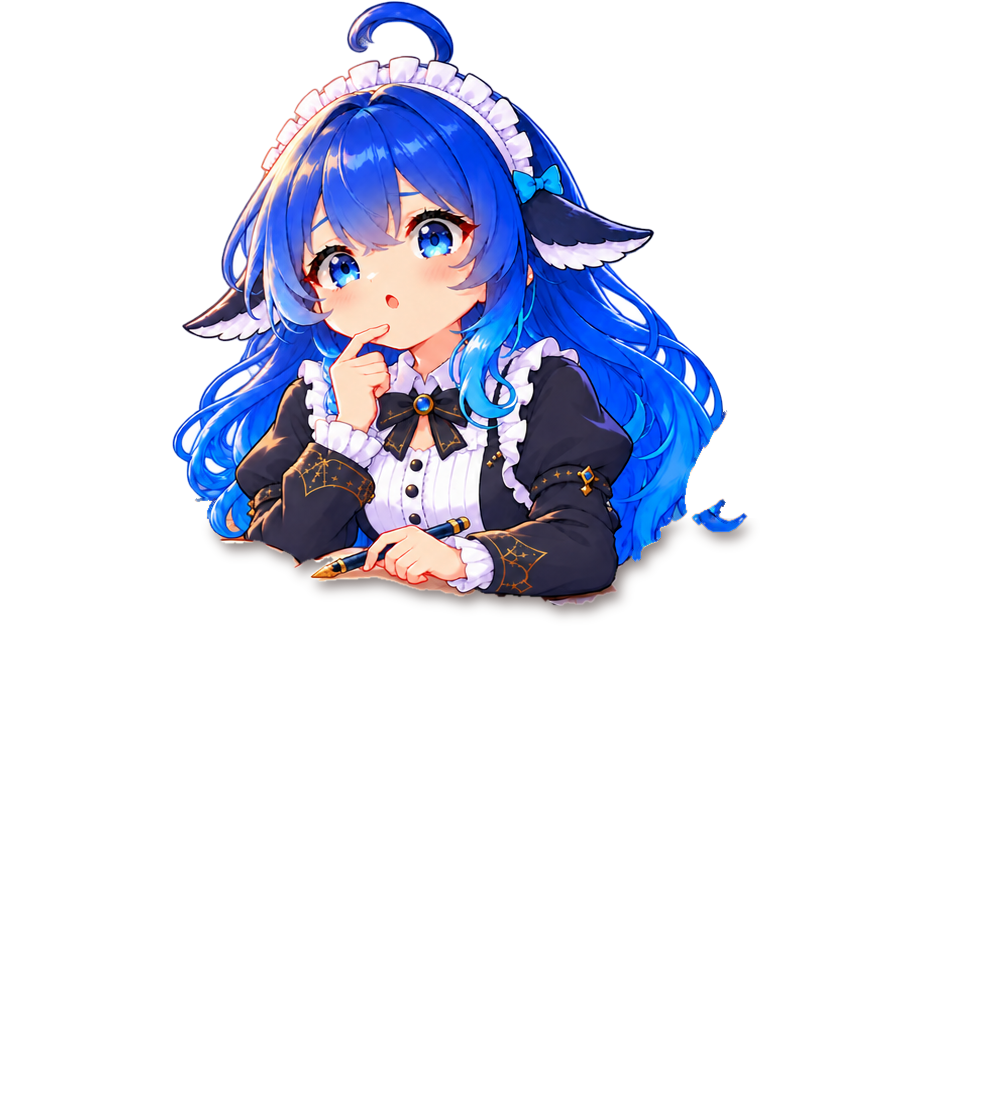
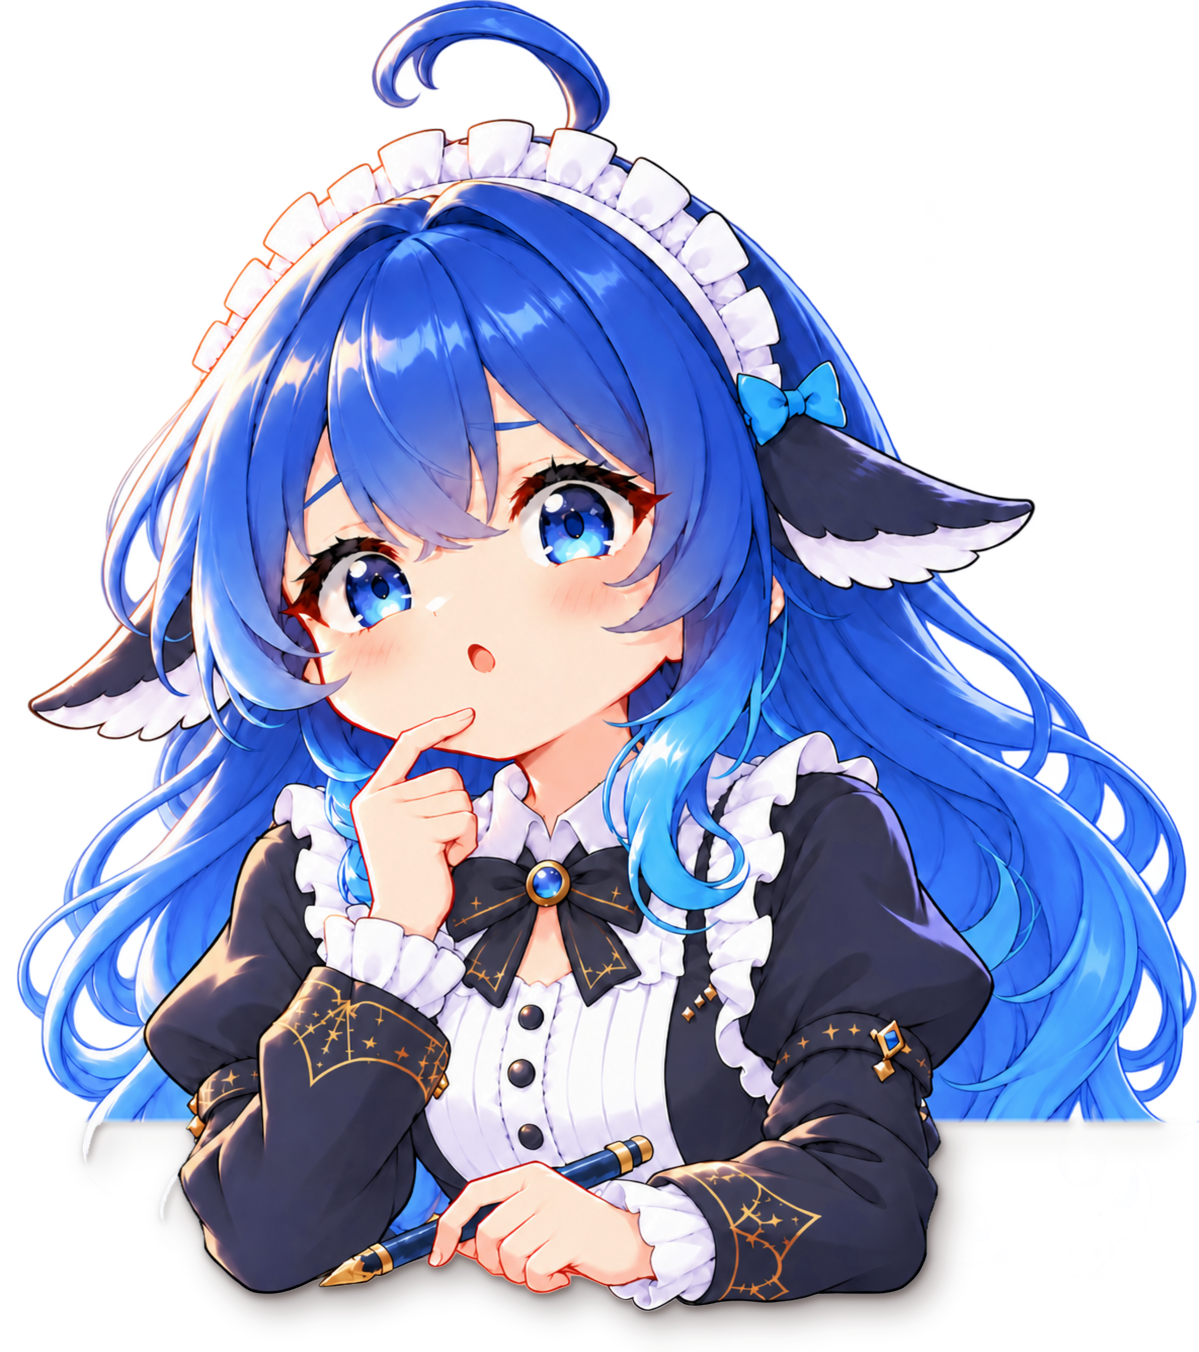
人物层改用 relit3 立绘：放到固定书桌上，程序生成阴影（char_layers.py 替换 combo_layers.py）

diff --git a/brand-override/skin.css b/brand-override/skin.css
@@ -463,8 +463,10 @@ $SKIN [data-sidebar-right-panel="push"][data-sidebar-right-open="true"] {
  * assets/combo/hair-*.png 是合成图左侧 x 0–270、y 0–700 的一条，桌面以下只留发丝（tools/combo_hair.py），
  * 和合成图同一原点、同一比例叠放，只显示陪伴栏左边以外的部分。
  * 「固定书桌 + 人物层」（陪伴栏带 data-layered，第九步）：书桌 desk-fixed 一张不切换，截在栏内；
- * 人物层 char-*（tools/combo_layers.py）不截，伸出栏外的头发直接盖住对话框，不再需要头发条；
- * 最上面是从书桌切出的羽毛笔和墨水瓶 desk-front。三张都是同一原点、同一尺寸。 */
+ * 人物层 char-*（tools/char_layers.py 由 relit3 立绘生成）不截，伸出栏外的头发直接盖住对话框，不再需要头发条。
+ * 人物层是立绘坐标（1199×1312，底部多 40px 放阴影，共 1352），按立绘框放：左 = 立绘左，宽 = 立绘宽，
+ * 上 = 合成图上沿 − 3 / 1120 × 合成图高（立绘左上角在合成图 (174, −3)），高 = 立绘高 × 1352 / 1312。
+ * 书桌 desk-fixed 和羽毛笔、墨水瓶 desk-front 是合成图坐标（1000×1120），和以前的合成图同一位置。 */
 $SKIN [data-dsh-academy-rail][data-combo],
 $SKIN [data-dsh-academy-desk-back] {
   --dsh-ch-h: calc(63vh - 70px);
@@ -504,7 +506,13 @@ $SKIN [data-dsh-academy-rail][data-combo] .dsh-academy-combo-front {
   height: calc(var(--dsh-ch-h) * 1.8358);
   clip-path: inset(0 0 0 var(--dsh-combo-rail-x));
 }
-$SKIN [data-dsh-academy-rail][data-layered] .dsh-academy-character { clip-path: none; }
+$SKIN [data-dsh-academy-rail][data-layered] .dsh-academy-character {
+  top: calc(104px - var(--dsh-ch-h) * 0.0098);
+  left: var(--dsh-ch-x);
+  width: var(--dsh-ch-w);
+  height: calc(var(--dsh-ch-h) * 1.0305);
+  clip-path: none;
+}
 $SKIN [data-dsh-academy-rail][data-combo] .dsh-academy-hair {
   width: calc(var(--dsh-ch-w) * 0.4843);   /* 270 / 1000 × 合成图宽 */
   height: calc(var(--dsh-ch-h) * 1.1474);  /* 700 / 1120 × 合成图高 */

diff --git a/tools/char_layers.py b/tools/char_layers.py
@@ -1,0 +1,103 @@
+#!/usr/bin/env python3
+"""
+第九步「固定书桌 + 人物层」的素材生成。
+
+人物层：直接用 relit3 立绘（2398×2624），缩到立绘坐标 1199×1312（陪伴栏里人物按这个尺寸显示，比合成图里的人物清楚一倍），
+放到固定书桌上：桌面后沿以上全部保留；以下去掉身体两侧垂下的头发（只去和两侧头发连通的部分，衬衫上偏蓝的阴影、
+好奇表情的蓝色笔杆不动），手臂和手压在桌上。接触阴影程序生成（贴边一层 + 右下柔和投影），画布底部多留 PAD px 给阴影。
+输出 assets/combo/char-*.png（1199×1352）和 thumb-*.png（256×256，同一个头部框）。
+
+书桌：--desk 给出 GPT 交付的固定书桌（1405×1120）时，裁出合成图坐标 x 250–1250 存为 desk-fixed.png（alpha ≥ 240 改成 255），
+并切出羽毛笔和墨水瓶所在的矩形存为 desk-front.png，叠在人物层上面（这块和下面的书桌像素相同，只有盖住头发的地方看得出来）。
+
+坐标：立绘坐标 p 和合成图坐标 c（1000×1120，即 round14 x 250–1250）的关系是 c = (174, −3) + 0.465 × p，
+和 round14 合成图里人物的位置、大小一致（skin.css 合成图段按这个换算）。
+用法：python3 tools/char_layers.py --src <素材目录>/round6/relit3 [--desk <素材目录>/round15/desk-fixed.png] [--debug <目录>]
+"""
+import sys
+from pathlib import Path
+
+import numpy as np
+from PIL import Image
+from scipy import ndimage
+
+DIR = Path(__file__).resolve().parent.parent / 'assets' / 'combo'
+SOURCES = {'default': 'academy-maid-pensive', 'happy': 'expr-happy', 'curious': 'expr-curious', 'wink': 'expr-wink'}
+W, H, PAD = 1199, 1312, 40
+EDGE = 1117          # 桌面后沿：固定书桌在合成图 y≈515，round14 是 518，换成立绘坐标约 1114–1120
+RAMP = 6             # 去头发时从桌沿往下 6px 过渡
+SIDE_L, SIDE_R = 150, 960   # 桌沿以下，这两条线外侧的头发是「两侧垂下的头发」，从这里开始找连通的头发
+THUMB_BOX = (34, 77, 944, 987)   # 头部框（立绘坐标），和以前合成图缩略图的框是同一处
+FRONT_BOX = (634, 330, 760, 615)  # 羽毛笔和墨水瓶（合成图坐标）
+
+
+def char_layer(src):
+    im = Image.open(src).convert('RGBA').resize((W, H), Image.LANCZOS)
+    a = np.zeros((H + PAD, W, 4), float)
+    a[:H] = np.asarray(im).astype(float)
+    a[..., 3] = np.where(a[..., 3] >= 240, 255, a[..., 3])   # relit3 主体 alpha 是 250–254
+    r, g, b = a[..., 0], a[..., 1], a[..., 2]
+    yy = np.arange(H + PAD)[:, None] * np.ones((1, W), int)
+    xx = np.arange(W)[None, :] * np.ones((H + PAD, 1), int)
+    hair = (((b > 110) & (b - r > 45) & (b - g > 15)) | ((b > 170) & (b - r > 28) & (b >= g))) & (a[..., 3] > 20)
+    low = yy >= EDGE
+    seed = hair & low & ((xx < SIDE_L) | (xx > SIDE_R))
+    side = ndimage.binary_propagation(seed, mask=hair & low)
+    side = ndimage.gaussian_filter(ndimage.binary_dilation(side, iterations=1).astype(float), 0.8)
+    ramp = np.clip((yy - EDGE) / RAMP, 0, 1)
+    a[..., 3] *= 1 - side * ramp
+    # 接触阴影：桌沿以下的人物轮廓
+    al = a[..., 3] / 255
+    body = ((al > 0.5) & low).astype(float)
+    contact = ndimage.gaussian_filter(ndimage.shift(body, (4, 2), order=0), 4) * 0.5
+    soft = ndimage.gaussian_filter(ndimage.shift(body, (15, 11), order=0), 15) * 0.4
+    sh = np.clip(1 - (1 - contact) * (1 - soft), 0, 0.6) * (1 - al) * low
+    oa = al + sh * (1 - al)
+    out = np.zeros_like(a)
+    out[..., :3] = (a[..., :3] * al[..., None] + np.array([40, 22, 18]) * (sh * (1 - al))[..., None]) / np.maximum(oa, 1e-6)[..., None]
+    out[..., 3] = oa * 255
+    return Image.fromarray(np.clip(out, 0, 255).astype('uint8'))
+
+
+def desk_layers(src):
+    d = Image.open(src).convert('RGBA')
+    if d.size != (1405, 1120):
+        raise SystemExit(f'desk 尺寸应为 1405×1120，实际 {d.size}')
+    a = np.asarray(d.crop((250, 0, 1250, 1120))).copy()
+    a[..., 3] = np.where(a[..., 3] >= 240, 255, a[..., 3])   # GPT 给的主体 alpha 是 245–254
+    Image.fromarray(a).save(DIR / 'desk-fixed.png', optimize=True)
+    front = np.zeros_like(a)
+    x1, y1, x2, y2 = FRONT_BOX
+    front[y1:y2, x1:x2] = a[y1:y2, x1:x2]
+    Image.fromarray(front).save(DIR / 'desk-front.png', optimize=True)
+    print('wrote', DIR / 'desk-fixed.png', DIR / 'desk-front.png')
+
+
+def main():
+    args = sys.argv[1:]
+    opt = lambda name: args[args.index(name) + 1] if name in args else None
+    src, desk, debug = opt('--src'), opt('--desk'), opt('--debug')
+    if desk:
+        desk_layers(desk)
+    if not src:
+        return
+    for key, name in SOURCES.items():
+        layer = char_layer(Path(src) / f'{name}.png')
+        layer.save(DIR / f'char-{key}.png', optimize=True)
+        layer.crop(THUMB_BOX).resize((256, 256), Image.LANCZOS).save(DIR / f'thumb-{key}.png', optimize=True)
+        print('wrote', DIR / f'char-{key}.png', DIR / f'thumb-{key}.png')
+        if debug:
+            # 预览：按合成图坐标叠到固定书桌上
+            Path(debug).mkdir(parents=True, exist_ok=True)
+            base = Image.new('RGBA', (1000, 1120), (225, 228, 235, 255))
+            base.alpha_composite(Image.open(DIR / 'desk-fixed.png'))
+            small = layer.resize((round(W * 0.465), round((H + PAD) * 0.465)), Image.LANCZOS)
+            top = Image.new('RGBA', base.size, (0, 0, 0, 0))
+            top.paste(small, (174, -3), small)
+            base.alpha_composite(top)
+            base.alpha_composite(Image.open(DIR / 'desk-front.png'))
+            base.save(Path(debug) / f'preview-{key}.png')
+
+
+if __name__ == '__main__':
+    main()

diff --git a/docs/交接说明.md b/docs/交接说明.md
@@ -46,6 +46,7 @@ DeepSeek Harness 桌面版（Electron）的**本地皮肤插件**，非官方，
 | `tools/devtools.mjs` | 连接调试端口：`eval` / `shot` / `css` / `live` |
 | `tools/sidebar_starmap.py` | 生成侧栏星图底纹 SVG（参数见 `skin.css` 注释） |
 | `tools/combo_relight.py` | 角色 + 书桌合成图重新打光（自检 `tools/combo_relight_check.py`） |
+| `tools/char_layers.py` | 第九步人物层（relit3 立绘 → `assets/combo/char-*.png`、缩略图）和固定书桌、前景层 |
 | `tools/expressions.py` | 表情立绘自检（`check` 只改脸、`pose` 允许换姿势）与统一裁缩略图（`thumbs`） |
 
 关键机制：
@@ -62,9 +63,9 @@ DeepSeek Harness 桌面版（Electron）的**本地皮肤插件**，非官方，
 | 对话框 | 金边九宫格边框，白底按边框内侧形状遮罩裁切；对话头像（DeepSeek / 用户） | `ui/panel-frame.png`、`ui/panel-fill-mask.png` |
 | 输入框 | 高清胶囊边框，按输入框高度等比缩放；粉色访问模式胶囊、绿色模型胶囊、蓝色发送钮 | `ui/composer-frame-v2.png` |
 | 右侧面板（文件/终端/浏览器） | 并排、全屏两种模式都有金边，白底同样遮罩裁切 | 同对话框 |
-| 陪伴栏 | 便签、固定书桌 + 人物层（四个表情：默认/开心/好奇/眨眼，只换人物层，150ms 交叉渐变）、人物层的头发伸出盖住对话框、对话框下面的桌子延伸层、羽毛笔和墨水瓶前景层、华丽气泡（尖角在左侧）、表情按钮 | `combo/desk-fixed.png`、`combo/char-*.png`、`combo/desk-front.png`、`combo/thumb-*.png`（旧的整张合成图和头发条保留作退路）、`ui/bubble-frame-ornate.png`、`ui/bubble-tail-left.png`；旧的 `relit/*` 立绘和 `ui/desk-v6.png` 保留但不再使用 |
+| 陪伴栏 | 便签、固定书桌 + 人物层（四个表情：默认/开心/好奇/眨眼，只换人物层，150ms 交叉渐变）、人物层的头发伸出盖住对话框、对话框下面的桌子延伸层、羽毛笔和墨水瓶前景层、华丽气泡（尖角在左侧）、表情按钮 | `combo/desk-fixed.png`、`combo/char-*.png`（relit3 立绘生成）、`combo/desk-front.png`、`combo/thumb-*.png`（旧的整张合成图和头发条保留作退路）、`ui/bubble-frame-ornate.png`、`ui/bubble-tail-left.png`；旧的 `relit/*` 立绘和 `ui/desk-v6.png` 保留但不再使用 |
 
-合成图模式的结构（重要，细节见 `skin.css` 合成图段注释和修改记录 2026-10-04 各条）。**当前用的是「固定书桌 + 人物层」**（`skin.mascot.desk`/`front` 给出时，陪伴栏带 `data-layered`）：书桌一张不切换、截在栏内，背层只放书桌；人物层 `char-*`（`tools/combo_layers.py` 从合成图抠出，含接触阴影）不截、交叉渐变；最上面是羽毛笔和墨水瓶。以下是旧的整张合成图做法，作为退路保留：
+合成图模式的结构（重要，细节见 `skin.css` 合成图段注释和修改记录 2026-10-04 各条）。**当前用的是「固定书桌 + 人物层」**（`skin.mascot.desk`/`front` 给出时，陪伴栏带 `data-layered`）：书桌一张不切换、截在栏内，背层只放书桌；人物层 `char-*`（`tools/char_layers.py` 由 relit3 立绘生成，立绘坐标，含接触阴影）不截、交叉渐变；最上面是羽毛笔和墨水瓶。以下是旧的整张合成图做法，作为退路保留：
 - `logo.config.json` 的 `skin.mascot.combo: true` 打开合成图模式；`skin.art.desk` 关掉。
 - 素材 `assets/combo/`：`combo-*.png` 是 round14 合成图（1405×1120）裁出的 x 250–1250（1000×1120）；`thumb-*.png` 用同一个头部框裁；`hair-*.png` 是左侧一条只有头发的图（`python3 tools/combo_hair.py` 生成，换图后要重跑）。
 - 每个表情是一个 `.dsh-academy-pose`，包含三处图：陪伴栏里的合成图（截在栏内）和头发条（只显示栏左边以外，盖住对话框），以及 body 下 `[data-dsh-academy-desk-back]` 里的同一张合成图（z-index 0，在对话框下面，只显示栏左边以外，让桌子延伸到对话框下）。
@@ -89,8 +90,8 @@ node tools/devtools.mjs eval "<JS>"                               # 查 DOM
 
 1. **已完成：固定书桌 + 人物层**（2026-10-04，第九步）。切换表情时书桌不再重影。**等用户看效果**。可能的后续：
    - 过渡还是 150ms（新人物淡入、旧人物晚 70ms 淡出）。书桌不再参与切换，可以按用户感觉放长或改成直接切换。
-   - 分辨率偏低（GPT 只出 1405×1120，陪伴栏里约放大 1.6 倍显示），需要的话用放大工具处理书桌和四张合成图后重跑 `tools/combo_layers.py`。
-   - 换图时：`python3 tools/combo_layers.py --desk <新书桌>`；新表情的手要在脚本 `HAND` 里补一个保守多边形，并检查 `REGION`。
+   - 人物用 relit3，清晰；书桌仍是 GPT 的 1405×1120（约放大 1.6 倍显示），需要的话单独放大书桌。
+   - 换图时：`python3 tools/char_layers.py --src <素材目录>/round6/relit3 --desk <素材目录>/round15/desk-fixed.png`；人物层的包体上限是 maxPx 1100（再大会超 6 MB）。
 2. **发布 v1.1**：本地有很多提交未推送（用 `git rev-list --count origin/main..HEAD` 查看）。推送、打 tag `v1.1.0`，Release 附带新的插件 zip（打包方式见 `docs/修改记录.md` 中 v1.0 发布那条）。发布前重新截 README 预览图并打码（会话标题、账号头像和昵称）；README 里陪伴栏的说明要更新成合成图。
 3. 不再使用的旧素材和工具：`assets/relit/`、`ui/desk-v6.png`、`tools/combo_relight.py`、`tools/layered_mock.py`（分层拼合草稿，作为退路保留）。发布前可以考虑清理或在 README 里说明。
 

diff --git a/docs/gpt-书桌比例修复.md b/docs/gpt-书桌比例修复.md
@@ -500,7 +500,7 @@ round14 合成图接入后，用户发现切换表情时桌子有重影：四张
 【不要】背景、文字、UI、灰白格子、方形补丁、拼接线、发糊的边缘。
 ```
 
-2. **人物层**（脚本，不让 GPT 重画）——**已完成**：`python3 tools/combo_layers.py` 生成 `assets/combo/char-*.png`（含接触阴影，即第 3 项），做法见修改记录 2026-10-04「人物层脚本抠图」。原计划：从 round14 四张（好奇用 `combo-curious-v2.png`，默认用修正比例后的版本）抠出人物。桌沿（合成图 y≈520）以上是人物，排除花瓶、墨水瓶、羽毛笔等高出桌面的物件；桌沿以下只留手臂和手（参考 `tools/combo_hair.py` 的颜色加连通性做法，袖子是深蓝、手是肤色、袖口是白色，要和书的深蓝封面、白色书页区分开）。逐张原尺寸放大检查手和书交界处。抠不干净的那一张，再让 GPT 出「同一画面、去掉桌子只留人物」的版本，由脚本对齐位置。
+2. **人物层**——**最终改为直接用 relit3 立绘**（`tools/char_layers.py`，见修改记录 2026-10-04「人物层改用 relit3 立绘」）；先从 round14 抠图的做法因为带着原图书页、拼接明显而放弃。原计划：从 round14 四张（好奇用 `combo-curious-v2.png`，默认用修正比例后的版本）抠出人物。桌沿（合成图 y≈520）以上是人物，排除花瓶、墨水瓶、羽毛笔等高出桌面的物件；桌沿以下只留手臂和手（参考 `tools/combo_hair.py` 的颜色加连通性做法，袖子是深蓝、手是肤色、袖口是白色，要和书的深蓝封面、白色书页区分开）。逐张原尺寸放大检查手和书交界处。抠不干净的那一张，再让 GPT 出「同一画面、去掉桌子只留人物」的版本，由脚本对齐位置。
 3. **阴影**（程序生成）：手臂和手压在桌面上的接触阴影，单独做成半透明一层，跟人物一起切换（参考 `tools/layered_mock.py` 的阴影做法）。
 用户的设想（2026-10-04）：书桌和桌上物件单独一张图；人物连同投影单独一张图；界面里人物图直接叠在书桌图上。上面第 2、3 步是推荐的做法（抠图保证位置和手的落点与书桌严格对应，阴影用程序生成可控）。如果用户想让 GPT 直接画「人物 + 投影」的透明图，要注意两点：GPT 很难画出真正半透明的投影（常见是不透明的灰块，或者干脆没有）；人物位置和手的落点要和固定书桌对齐，交付后要量位置，只允许整张平移或等比缩放。
 4. **接入**：陪伴栏和桌子背层都改成「固定书桌 + 人物层」：书桌只放一份，不参与切换；人物层（含阴影）交叉渐变；头发条照旧从人物层生成。渐变可以适当放长。

diff --git a/docs/修改记录.md b/docs/修改记录.md
@@ -209,6 +209,16 @@ osascript -e 'quit app "DeepSeek Harness"' && open -a "DeepSeek Harness"
 
 ## 五、版本记录
 
+### 2026-10-04 · 人物层改用 relit3 立绘（不再从合成图抠）
+
+- 备份：`backup/人物层去掉书页前-20261004-054905`。
+- 用户反馈：从 round14 抠出的人物层，手和钢笔下面带着原图书页，颜色、边缘和固定书桌的书页对不上，看得出拼接。试过严格只留人物（手按多边形 + 红色轮廓线），袖口刺绣、手腕、白色碎点一处处出问题。用户建议直接用 relit3 立绘放到桌上，再做阴影和蒙版。
+- 新脚本 `tools/char_layers.py`（替换 `combo_layers.py`）：relit3（2398×2624）缩到立绘坐标 1199×1312，底部多留 40px 放阴影。桌沿（立绘 y 1117，合成图 y≈515–518）以下，只去掉和身体两侧（x < 150、x > 960）连通的头发：衬衫偏蓝的阴影、好奇表情的蓝色笔杆不会被当成头发。手臂和手原样压在桌上；接触阴影程序生成（贴边偏移 (2,4)、模糊 4px、0.5，加右下 (11,15)、模糊 15px、0.4，最深 0.6）。缩略图从人物层同一个头部框（立绘坐标 34,77–944,987）裁。前景层改成固定书桌上羽毛笔、墨水瓶所在的矩形（合成图 x 634–760、y 330–615）。
+- 位置：立绘左上角在合成图 (174, −3)、缩放 0.465，和 round14 合成图里人物一致；四个表情的手都正好落在固定书桌那本打开的书上。
+- 样式：`data-layered` 时人物层按立绘框放（左 = `--dsh-ch-x`，宽 = `--dsh-ch-w`，高 = 立绘高 × 1352/1312，上 = 104px − 0.0098 × 立绘高）。
+- 包体：人物层 maxPx 1352 时 6.18 MB、1200 时 6.05 MB，都超 6 MB 上限；改成 1100（实际显示约 870 设备像素，够用），5.91 MB。
+- 验证：build + verify 72/72；调试端口截图确认好奇表情手、钢笔压在书上，没有书页残留；连续切换后只剩一层人物，书桌两份、前景一份。截图 `/Volumes/LQ1000/陪伴栏-relit3.png`（本机）。
+
 ### 2026-10-04 · 第九步完成：陪伴栏改为「固定书桌 + 人物层」
 
 - 备份：`backup/第九步接入固定书桌前-20261004-054344`。
